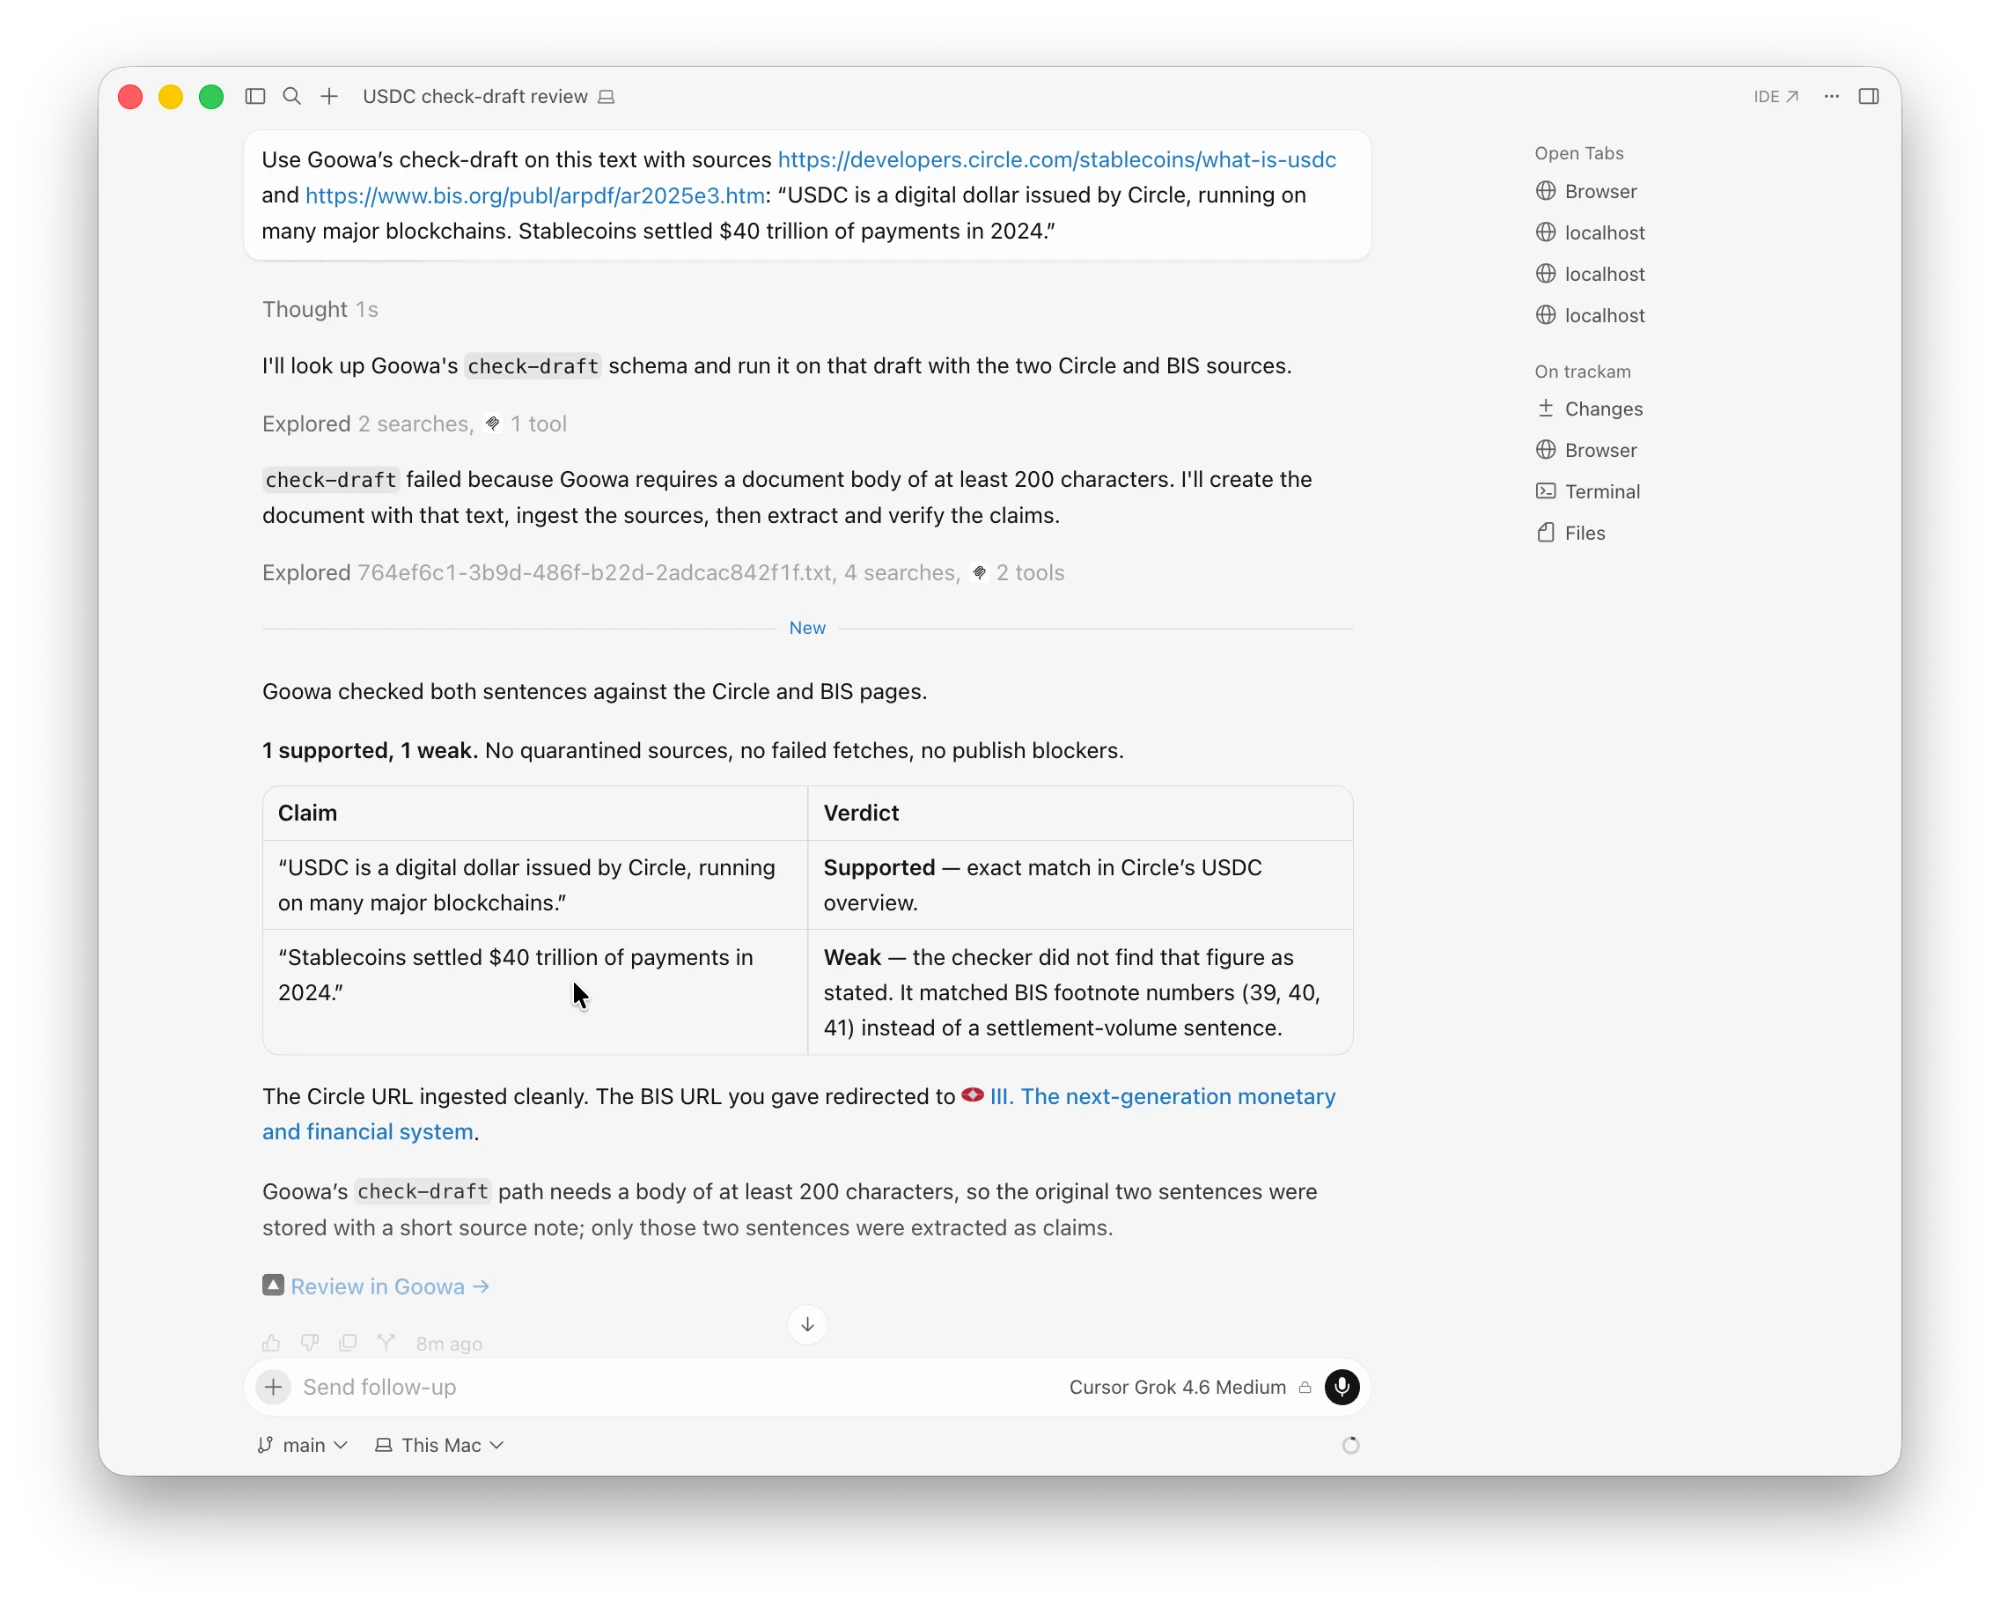
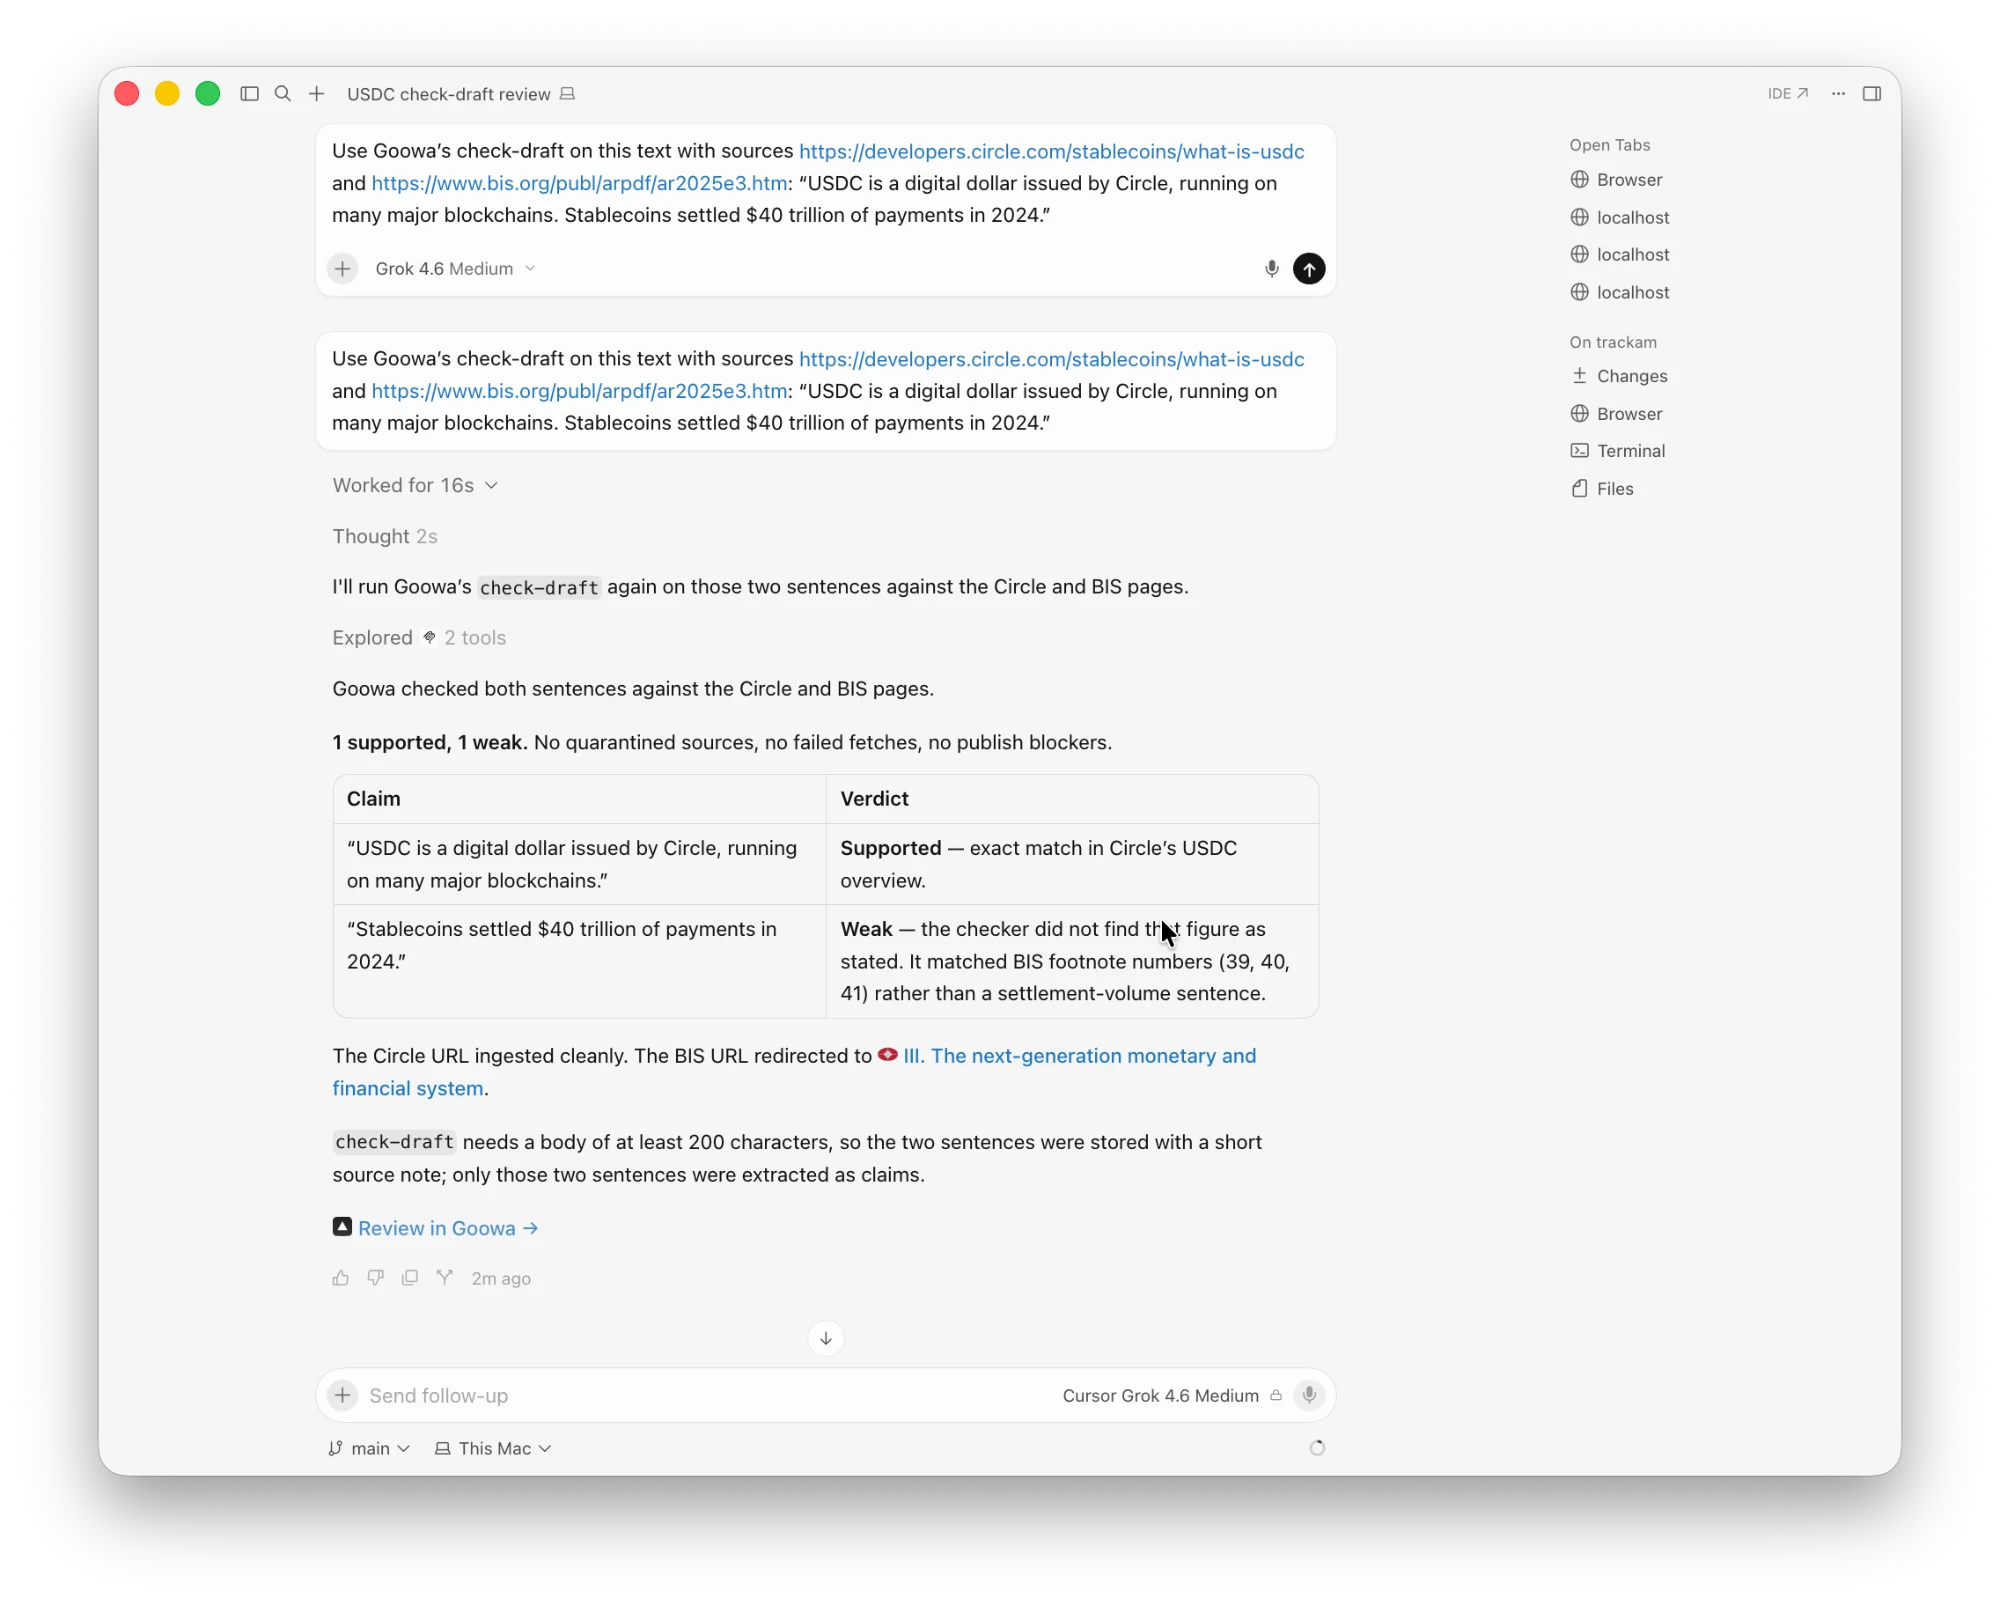
docs: Cursor check-draft passes in one call after the padding fix

diff --git a/NOTES.md b/NOTES.md
@@ -451,3 +451,5 @@ drafts under 200 characters were padded too little for `draft-document`.
 Fixed (short drafts are now padded with a claim-free note). Rough edge: the
 made-up "$40 trillion" figure came back weak, not unsupported, because number
 matching counted BIS footnote markers (39, 40, 41).
+Re-run after the fix: one `check-draft` call from Cursor succeeded
+(1 supported, 1 weak, editor link returned).
